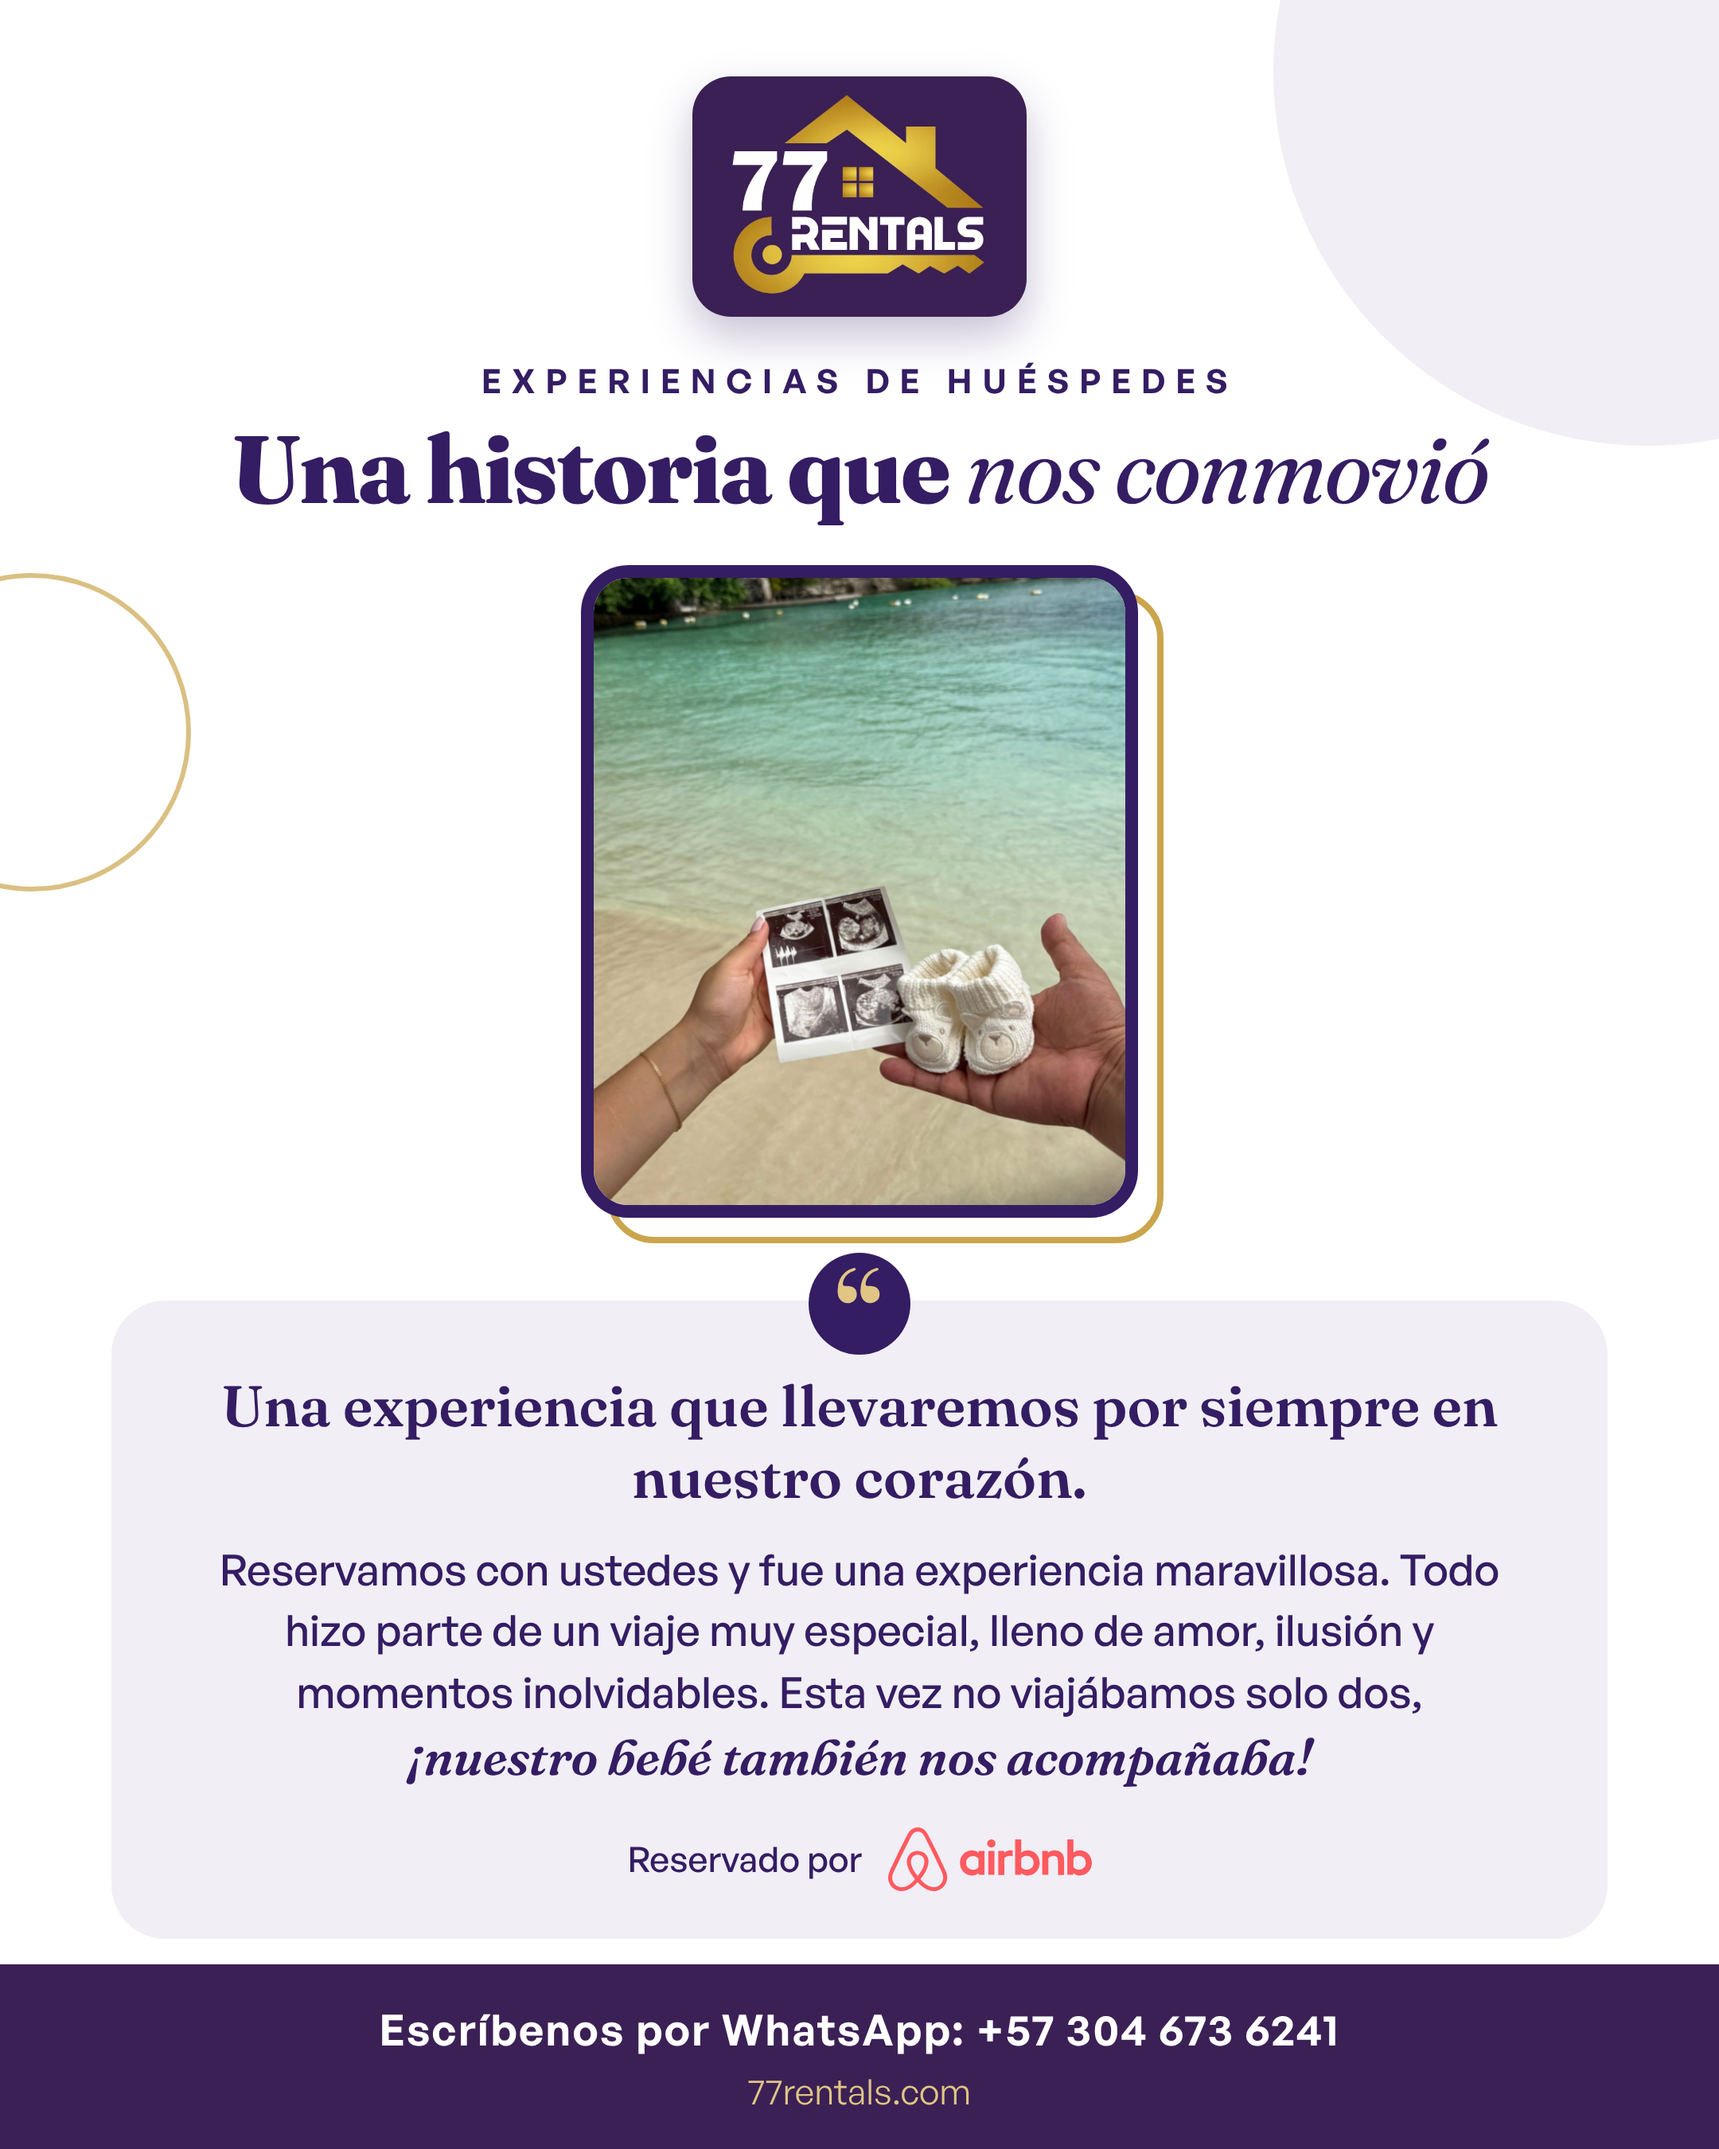
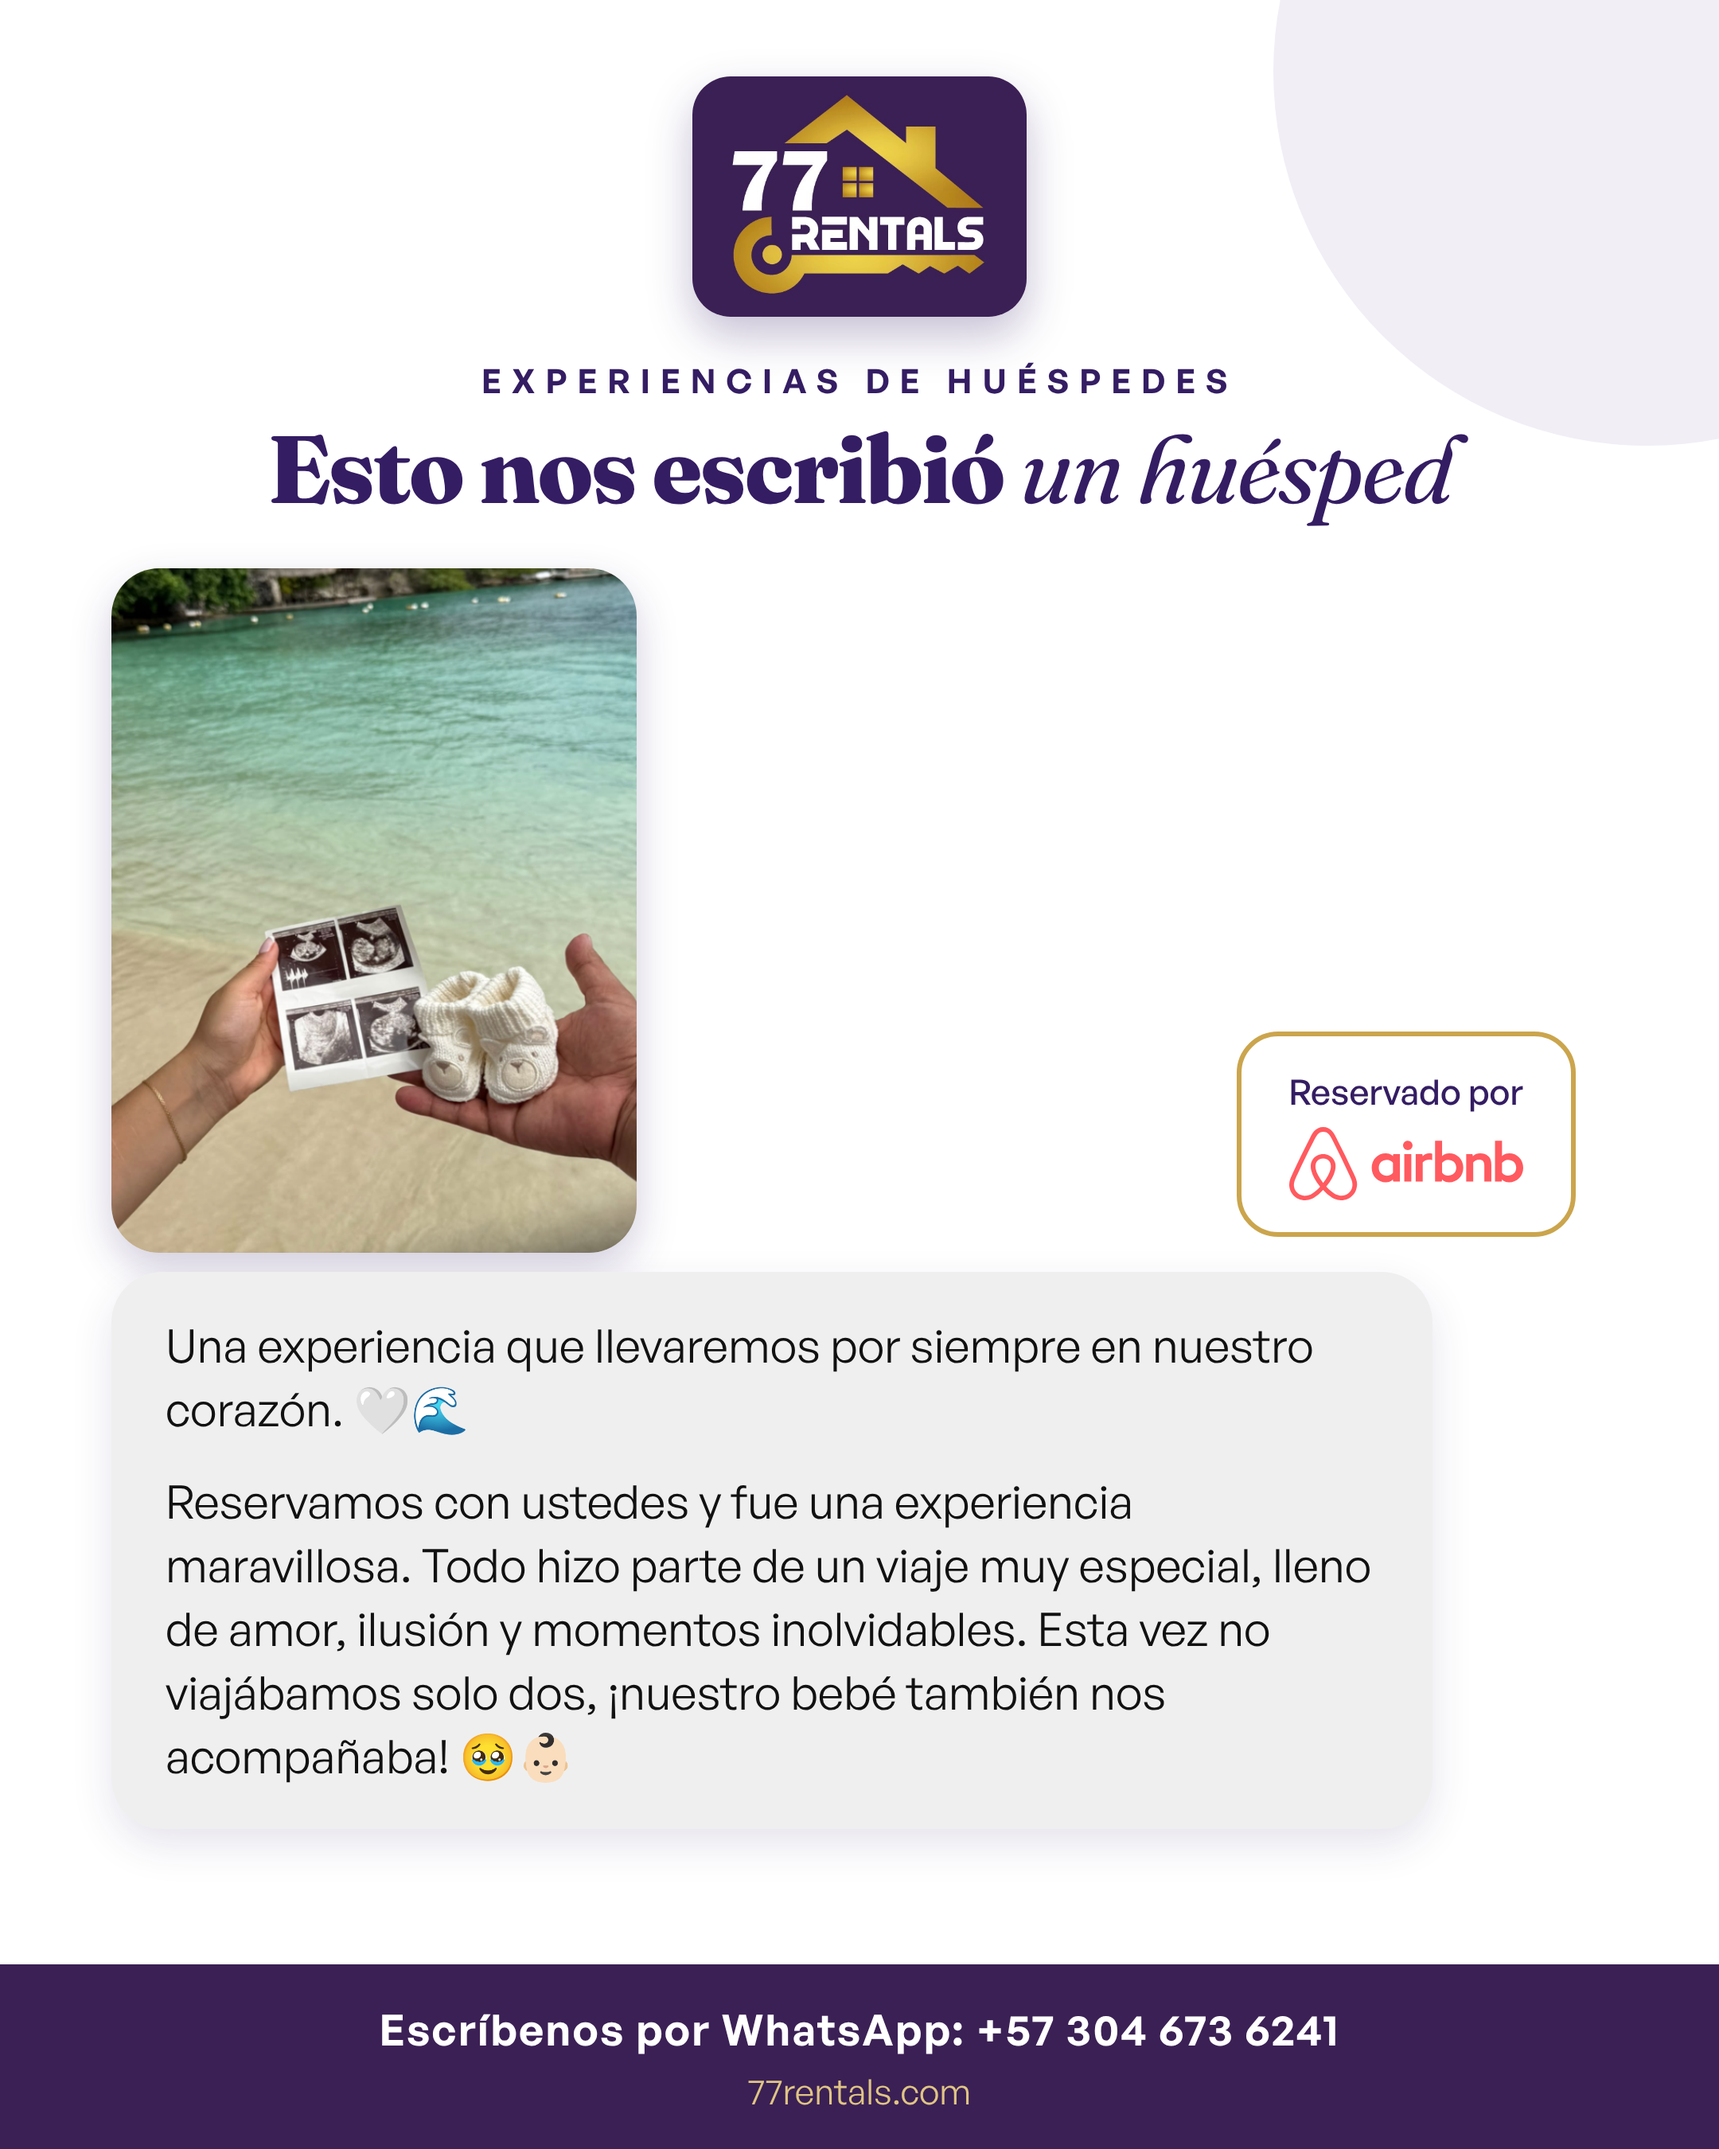
Testimonial poster: show guest message as chat bubbles
Claude-Session: https://claude.ai/code/session_01TDPBARzDZPbnL5vHsFmPfQ

Changed region(s): [[0.062, 0.1867, 0.8685, 0.8711], [0.7444, 0.4978, 0.8995, 0.56]]

diff --git a/posters/experiencia-huespedes/poster-testimonio.html b/posters/experiencia-huespedes/poster-testimonio.html
@@ -13,22 +13,21 @@ body{background:#fff}
 .poster{width:1080px;height:1350px;position:relative;overflow:hidden;background:#fff;color:var(--purple);
  display:flex;flex-direction:column;align-items:center;text-align:center;padding:48px 70px 0}
 .c1{position:absolute;top:-190px;right:-190px;width:470px;height:470px;border-radius:50%;background:var(--purple-light)}
-.c2{position:absolute;top:360px;left:-80px;width:200px;height:200px;border-radius:50%;border:3px solid var(--gold);opacity:.7}
+.c2{position:absolute;top:470px;right:-90px;width:240px;height:240px;border-radius:50%;border:3px solid var(--gold);opacity:.7}
 .logo{position:relative;width:210px;border-radius:24px;box-shadow:0 12px 28px rgba(52,29,99,.28)}
 .eyebrow{position:relative;margin-top:26px;font-family:var(--font-body);font-weight:600;font-size:21px;letter-spacing:.3em;text-transform:uppercase}
 .title{position:relative;margin-top:8px;font-family:var(--font-heading);font-weight:800;font-size:60px;letter-spacing:-.02em;line-height:1.1}
 .title em{font-weight:400;font-style:italic}
-.photowrap{position:relative;margin-top:28px;width:350px;height:410px}
-.photowrap:before{content:"";position:absolute;inset:0;transform:translate(16px,16px);border:4px solid var(--gold);border-radius:30px}
-.photowrap img{position:relative;width:100%;height:100%;object-fit:cover;border-radius:30px;border:8px solid var(--purple);display:block}
-.quote{position:relative;margin-top:52px;width:100%;background:var(--purple-light);border-radius:34px;padding:44px 56px 30px}
-.qm{position:absolute;top:-30px;left:50%;transform:translateX(-50%);width:64px;height:64px;border-radius:50%;background:var(--purple);color:var(--gold-light);
- font-family:var(--font-heading);font-weight:600;font-size:76px;line-height:84px;height:64px}
-.q1{font-family:var(--font-heading);font-weight:600;font-size:36px;line-height:1.25}
-.q2{margin-top:16px;font-family:var(--font-body);font-weight:500;font-size:27px;line-height:1.42}
-.q2 b{font-family:var(--font-heading);font-style:italic;font-weight:600;font-size:31px}
-.via{margin-top:22px;display:flex;align-items:center;justify-content:center;gap:16px;font-family:var(--font-body);font-weight:500;font-size:22px;color:var(--purple)}
-.via img{height:40px;display:block}
+.chat{position:relative;margin-top:30px;width:100%;display:flex;flex-direction:column;align-items:flex-start;gap:12px;text-align:left}
+.chat .tag{font-family:var(--font-body);font-weight:600;font-size:20px;letter-spacing:.08em;color:var(--muted,#6F677E);margin-left:14px;text-transform:uppercase}
+.bubble-photo{width:330px;height:430px;border-radius:30px;overflow:hidden;box-shadow:0 10px 26px rgba(52,29,99,.22)}
+.bubble-photo img{width:100%;height:100%;object-fit:cover;display:block}
+.bubble-text{max-width:830px;background:#EFEFEF;border-radius:32px;padding:26px 34px;font-family:var(--font-body);font-weight:400;font-size:29px;line-height:1.38;color:#111;box-shadow:0 10px 26px rgba(52,29,99,.12)}
+.bubble-text p+p{margin-top:18px}
+.time{font-family:var(--font-body);font-size:18px;color:#6F677E;margin-left:14px}
+.row{width:100%;display:flex;align-items:flex-end;justify-content:space-between}
+.via{display:flex;flex-direction:column;align-items:center;gap:8px;padding:20px 30px;border:3px solid var(--gold);border-radius:26px;font-family:var(--font-body);font-weight:500;font-size:22px;color:var(--purple);margin-bottom:10px;margin-right:20px}
+.via img{height:46px;display:block}
 .footer{position:absolute;left:0;right:0;bottom:0;height:116px;background:var(--purple-logo);color:#fff;
  display:flex;flex-direction:column;align-items:center;justify-content:center;gap:6px;font-family:var(--font-body)}
 .footer .a{font-size:27px;font-weight:600;letter-spacing:.04em}
@@ -37,16 +36,17 @@ body{background:#fff}
 </head>
 <body>
 <div class="poster">
-  <div class="c1"></div><div class="c2"></div>
+  <div class="c1"></div>
   <img class="logo" src="logo77.jpeg" alt="77Rentals">
   <div class="eyebrow">Experiencias de huéspedes</div>
-  <h1 class="title">Una historia que <em>nos conmovió</em></h1>
-  <div class="photowrap"><img src="foto-huesped.png" alt="Manos con una ecografía y unos zapatitos de bebé frente al mar"></div>
-  <div class="quote">
-    <div class="qm">“</div>
-    <p class="q1">Una experiencia que llevaremos por siempre en nuestro corazón.</p>
-    <p class="q2">Reservamos con ustedes y fue una experiencia maravillosa. Todo hizo parte de un viaje muy especial, lleno de amor, ilusión y momentos inolvidables. Esta vez no viajábamos solo dos, <b>¡nuestro bebé también nos acompañaba!</b></p>
-    <div class="via"><span>Reservado por</span><img src="airbnb.svg" alt="Airbnb"></div>
+  <h1 class="title">Esto nos escribió <em>un huésped</em></h1>
+  <div class="chat">
+    <div class="row"><div class="bubble-photo"><img src="foto-huesped.png" alt="Manos con una ecografía y unos zapatitos de bebé frente al mar"></div>
+    <div class="via"><span>Reservado por</span><img src="airbnb.svg" alt="Airbnb"></div></div>
+    <div class="bubble-text">
+      <p>Una experiencia que llevaremos por siempre en nuestro corazón. 🤍🌊</p>
+      <p>Reservamos con ustedes y fue una experiencia maravillosa. Todo hizo parte de un viaje muy especial, lleno de amor, ilusión y momentos inolvidables. Esta vez no viajábamos solo dos, ¡nuestro bebé también nos acompañaba! 🥹👶🏻</p>
+    </div>
   </div>
   <div class="footer">
     <div class="a">Escríbenos por WhatsApp: +57 304 673 6241</div>
